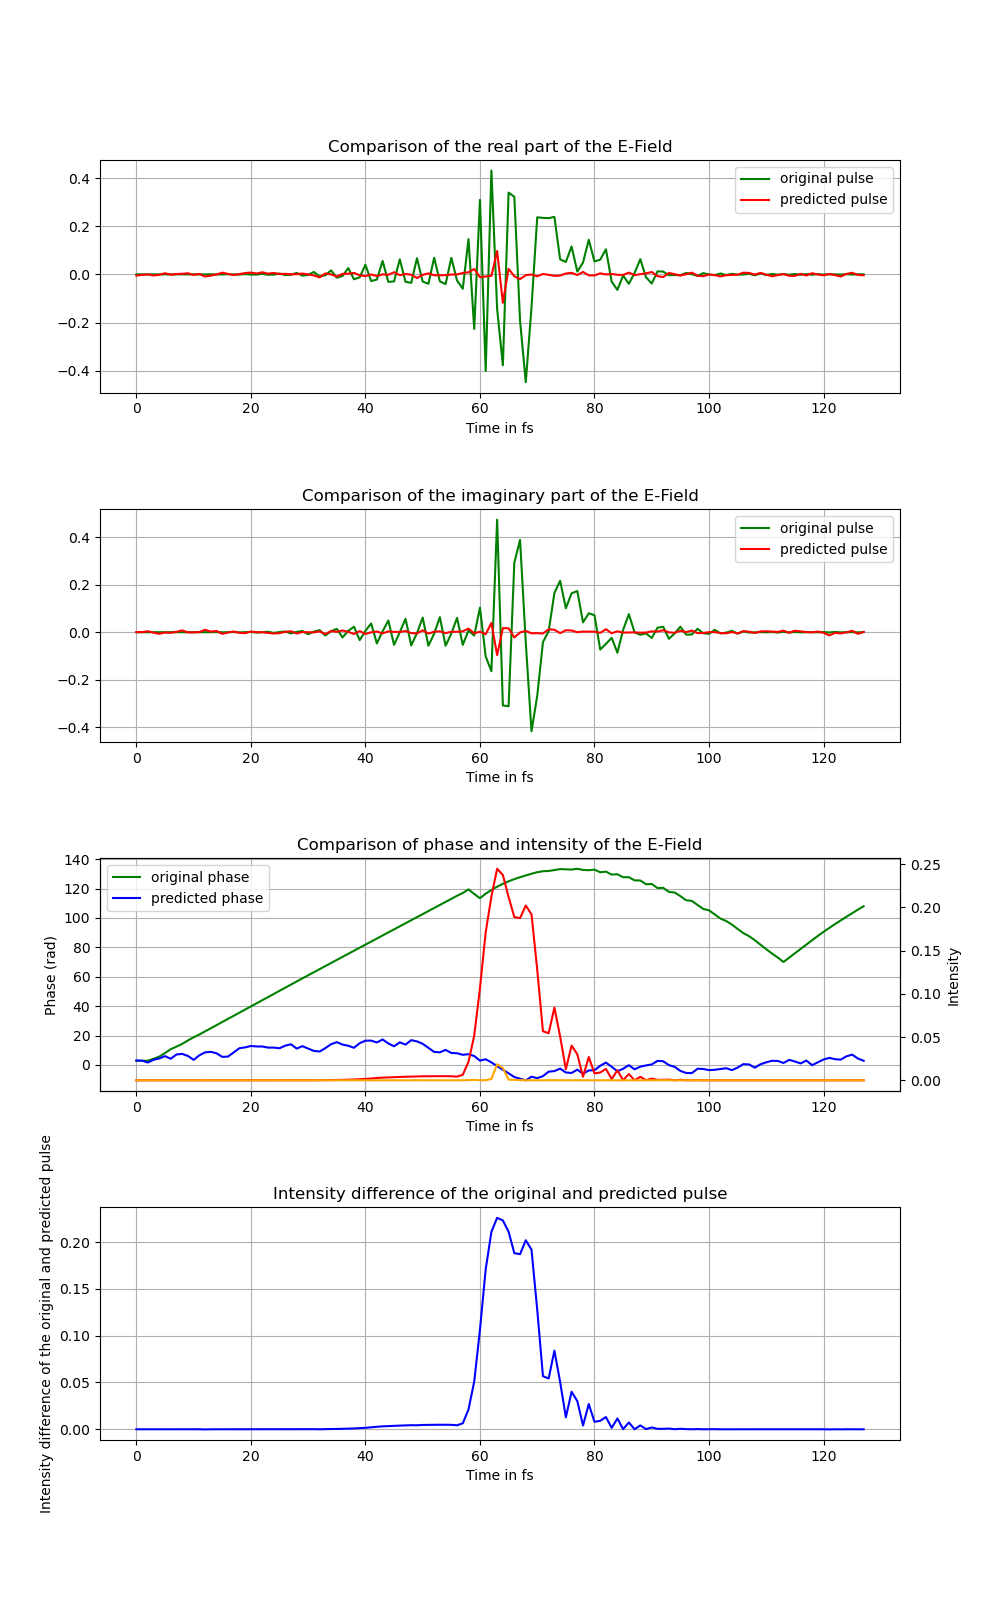
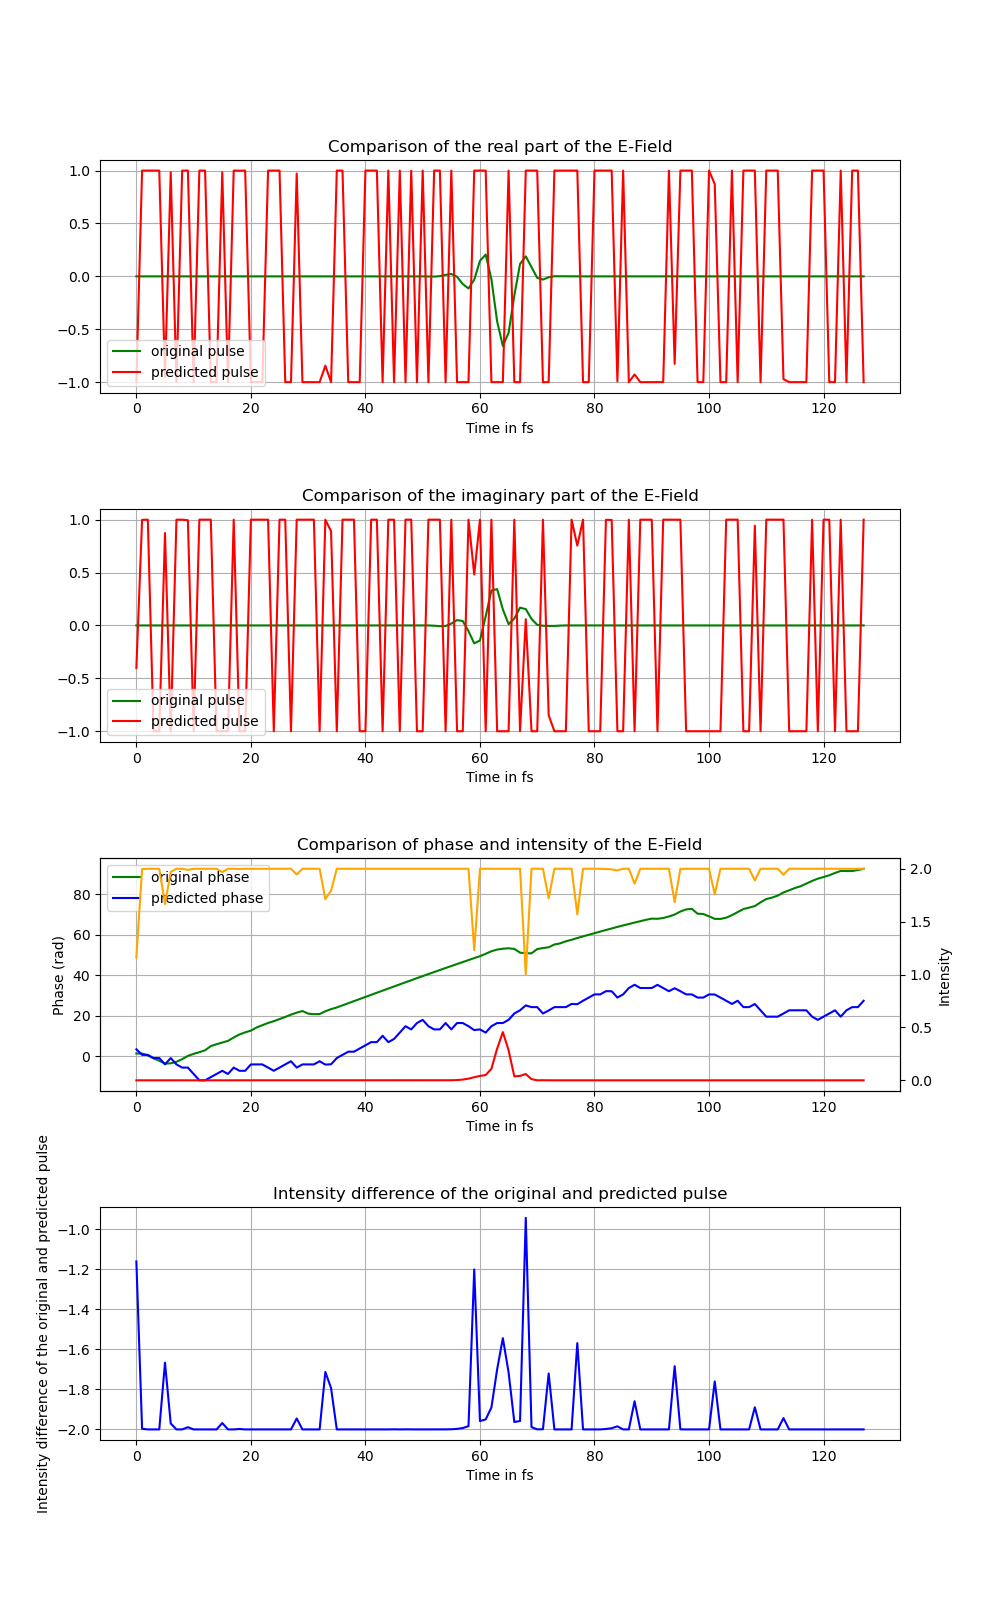
added plots, logs and models

diff --git a/config.py b/config.py
@@ -4,14 +4,14 @@ import os
 
 OUTPUT_SIZE = 128
 BATCH_SIZE = 10
-NUM_EPOCHS = 20
+NUM_EPOCHS = 2
 LEARNING_RATE = 0.001
 TRAINING_LOG_STEP_SIZE = BATCH_SIZE
 # NUMBER_FOLDS = 5
 # NUMBER_FOLDS = 2
 
-MAX_INTENSITY = 100
-MAX_PHASE = 100
+MAX_INTENSITY = 1
+MAX_PHASE = 1
 # MAX_INTENSITY = 1
 # MAX_PHASE = 1
 

diff --git a/training.py b/training.py
@@ -119,7 +119,7 @@ logger.info(f"Starting training...")
 # loss function
 # criterion = nn.MSELoss()
 criterion = helper.PulseRetrievalLossFunction(
-        penalty_factor=0.3,
+        penalty_factor=0.03,
         threshold=0.01
         )
 
